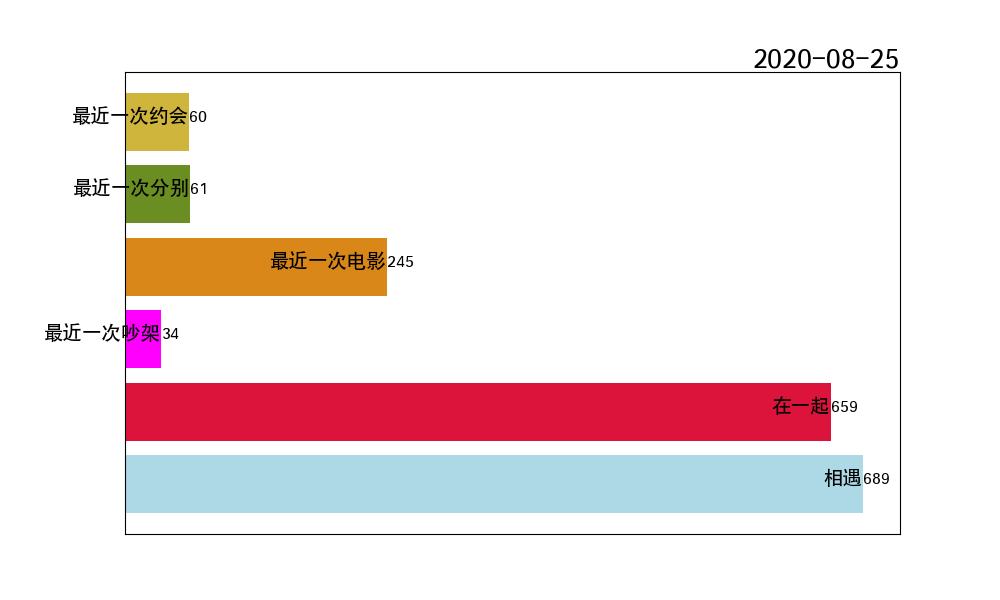
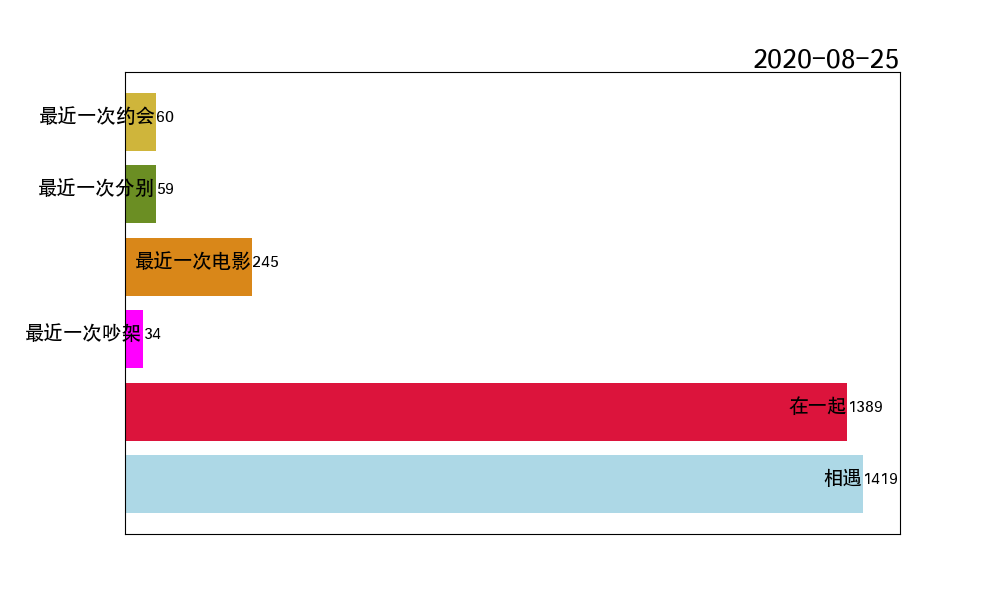
qixi1

diff --git a/index.html b/index.html
@@ -38,7 +38,7 @@
     let divTyping = document.getElementById('content_1'); //通过id获取div节点
     let a = 0;
     timer = 0;
-    str = "我们已经相遇 689 天<br>在一起了 659 天<br>距离最近一次看电影 245 天<br>距离最近一次约会 60 天<br>距离最近一次分别 59 天<br>距离最近一次吵架 34 天";
+    str = "我们已经相遇 1419 天<br>在一起了 1389 天<br>距离最近一次看电影 245 天<br>距离最近一次约会 60 天<br>距离最近一次分别 59 天<br>距离最近一次吵架 34 天";
     function typing() {
         if (a <= str.length) { 
             divTyping.innerHTML = str.slice(0, a++) + '_';
